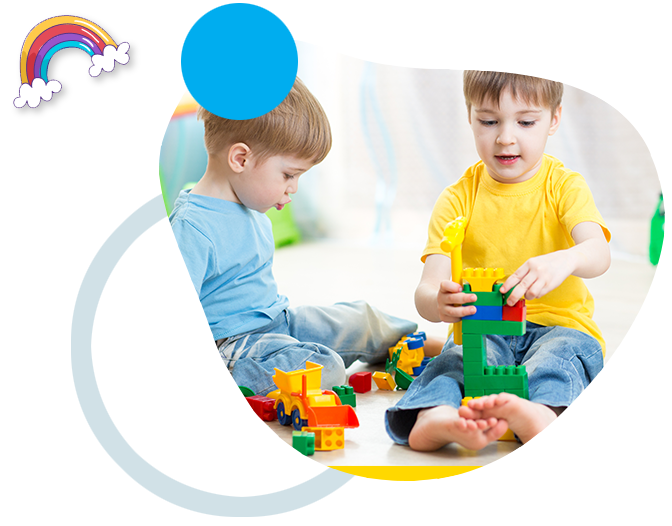
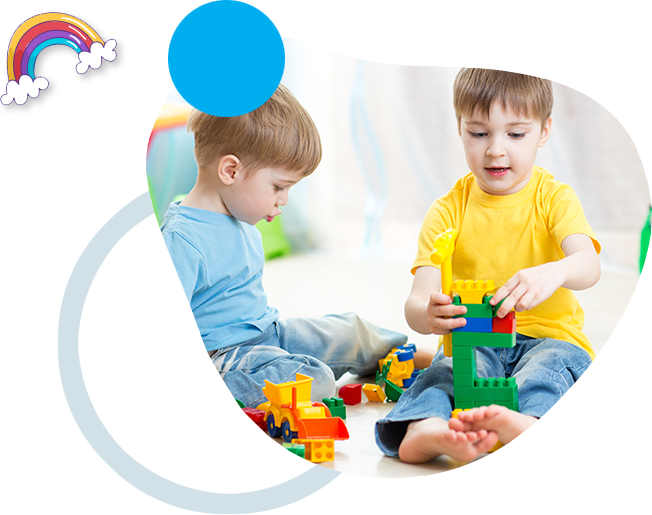
3rd commit

diff --git a/src/assets/css/styles.css b/src/assets/css/styles.css
@@ -195,16 +195,16 @@ mat-card{
 /*curriculum design*/
 
 .curriculum{
-    background: url(../images/baloon1.png), url(../images/rkt.png)  !important;
+    background: url(../images/baloon1.png), url(../images/rkt.png),url(../images/bk-01.jpg), url(../images/cr_arw.jpg) !important;
     background-repeat: no-repeat !important;
-    background-position: right 10% , 4% center !important;
+    background-position: right 10% , 4% center , 99% 80%, 3% 98% !important;
     width:100%;
     padding: 0 !important;
 }
 .curriculum .container{
-    width: 80%;
+    width: 77%;
     margin: 0 auto;
-    padding: 0%;
+    padding: 0 0 20px;
 }
 .curriculum .container .content1{
 display: flex;
@@ -233,20 +233,48 @@ margin: 15px 0;
     border: none;
 }
 .curriculum .container .content1 .content .green_btn{
-    background-color: #4dfb4d;
+    background: rgb(0,177,93);
+    background: linear-gradient(270deg, rgba(0,177,93,1) 0%, rgba(0,249,133,1) 100%);
 }
 .curriculum .container .content1 .content .violt_btn{
-    background-color: #a913a9;
+    background: rgb(122,12,182);
+    background: linear-gradient(270deg, rgba(122,12,182,1) 0%, rgba(169,105,218,1) 100%);
 }
 .curriculum .container .content1 .content .orng_btn{
-    background-color: #ed6f0e;
+    background: rgb(182,60,12);
+    background: linear-gradient(270deg, rgba(182,60,12,1) 0%, rgba(223,113,47,1) 100%);
 }
 .curriculum .container .content1 .content .skblu_btn{
-    background-color: #9090f5;
+    background: rgb(12,120,162);
+    background: linear-gradient(270deg, rgba(12,120,162,1) 0%, rgba(87,182,209,1) 100%);
 }
 .curriculum .container .content1 .content .chyn_btn{
-    background-color: #19d3e1;
+    background: rgb(30,131,83);
+    background: linear-gradient(270deg, rgba(30,131,83,1) 0%, rgba(68,187,132,1) 100%);
 }
 .curriculum .container .content1 .content p{
     font-size: 17px;
+}
+
+.curriculum .container .Crclm_bnr{
+    background-color: rgb(255, 204, 0);
+    display: flex;
+    justify-content: space-between;
+}
+.curriculum .container .Crclm_bnr img{
+    display: inline-block;
+}
+.curriculum .container .Crclm_bnr .content{
+    padding: 30px 30px 0;
+}
+.curriculum .container .Crclm_bnr .content h1{
+    color: #fff;
+    font-size: 48px;
+    margin: 0;
+    letter-spacing: 1px;
+    line-height: 1;
+}
+.curriculum .container .Crclm_bnr .content p{
+    font-size: 24px;
+    margin-top: 12px;
 }

diff --git a/src/assets/css/media.css b/src/assets/css/media.css
@@ -12,6 +12,12 @@
 
 }
 @media only screen and (max-width: 1024px){
+    .Enrollment_block {
+        background-image: url(/assets/images/baloon.png), url(/assets/images/bird.png) !important;
+        background-repeat: no-repeat !important;
+        background-position: left 70%,right 75% !important;
+        background-size: 9% ,9% !important;
+    }
 
     .Enrollment_block .Enrlmnt_contnt .Container1 h1 {
         color: #00ffff;
@@ -20,5 +26,62 @@
     }
     .Enrollment_block .Enrlmnt_contnt .Container1 .chlds{
         display:block;
+    }
+    .Enrollment_block .Enrlmnt_contnt .Container1{
+        padding-right: 0%;
+    }
+    .Enrollment_block .Enrlmnt_contnt{
+        width: 78%;
+        margin: 0 auto;
+        background:none;
+      
+    }
+    .Enrollment_block .Enrlmnt_contnt .Container1 a {
+        margin-bottom: 5px;
+    }
+
+    .resources {
+        padding: 0 !important;
+        background-image: url(/assets/images/chklt.png),url(/assets/images/erth.png),url(/assets/images/bg-bl_shade.png) !important;
+        background-repeat: no-repeat !important;
+        background-position: 0% 5%, 100% 90% !important;
+        background-size: 12% ,12%,90% !important;
+    }
+    .resources .clms {
+        display:block !important;
+
+    }
+    .resources .clms .news_blk {
+        width: 100%;
+        margin: 12px 0;
+    }
+    .resources .clms .news_blk .NewsTitle {
+        justify-content: left;
+    }
+    .resources .clms .news_blk .img_box {
+        width: 8%;
+    }
+}
+@media only screen and (max-width:770px){
+    .Enrollment_block{
+        background: none !important;
+    }
+    .Enrollment_block .Enrlmnt_contnt{
+        width: 100%;
+    }
+    .Enrollment_block .Enrlmnt_contnt .Container1 a {
+        font-size: 18px;
+        padding: 0px 16px;
+        margin-bottom: 0px;
+    }
+    .resources{
+        background: none !important;
+    }
+    .resources h1{
+        margin:0;
+        font-size: 38px;
+    }
+    .resources .clms{
+        width:95%;
     }
 }

diff --git a/src/app/about/about.component.html b/src/app/about/about.component.html
@@ -110,6 +110,16 @@
                 </p>
             </div>
         </div>
+        <div class="Crclm_bnr">
+            <img src="/assets/images/chlds.png">
+            <div class="content">
+                <h1>SPECIAL STUDIES</h1>
+                <p>
+                    <strong>Lorem ipsum dolor sit amet thia section - </strong>this section in everything else not covered above.
+                </p>
+            </div>
+           
+        </div>
 
     </mat-card>
 </mat-card>
